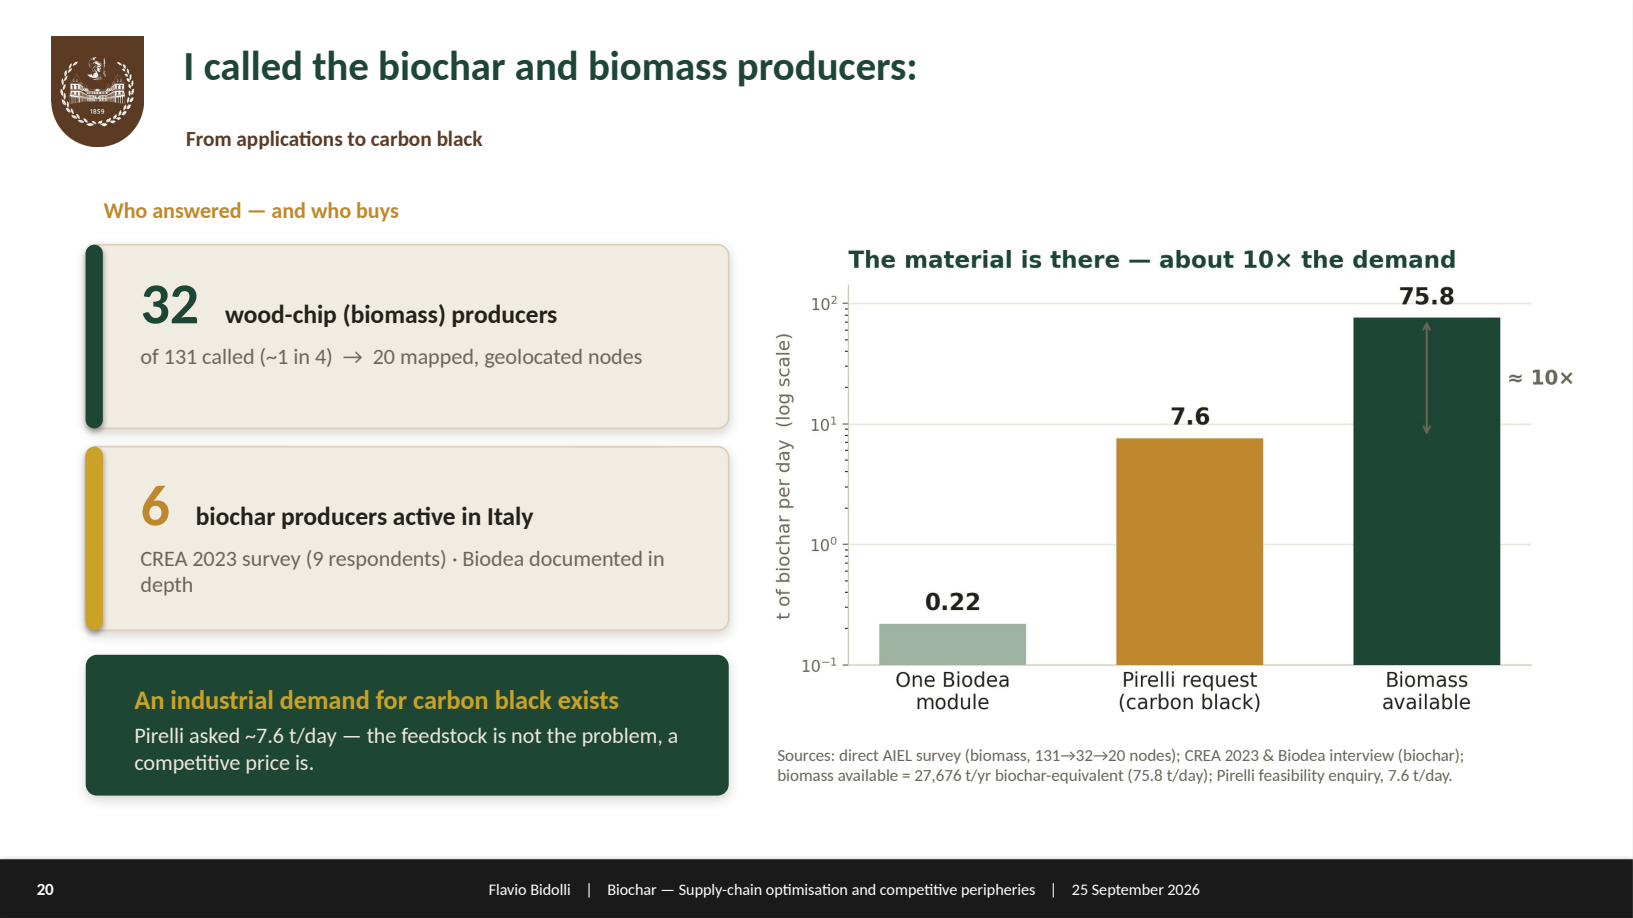
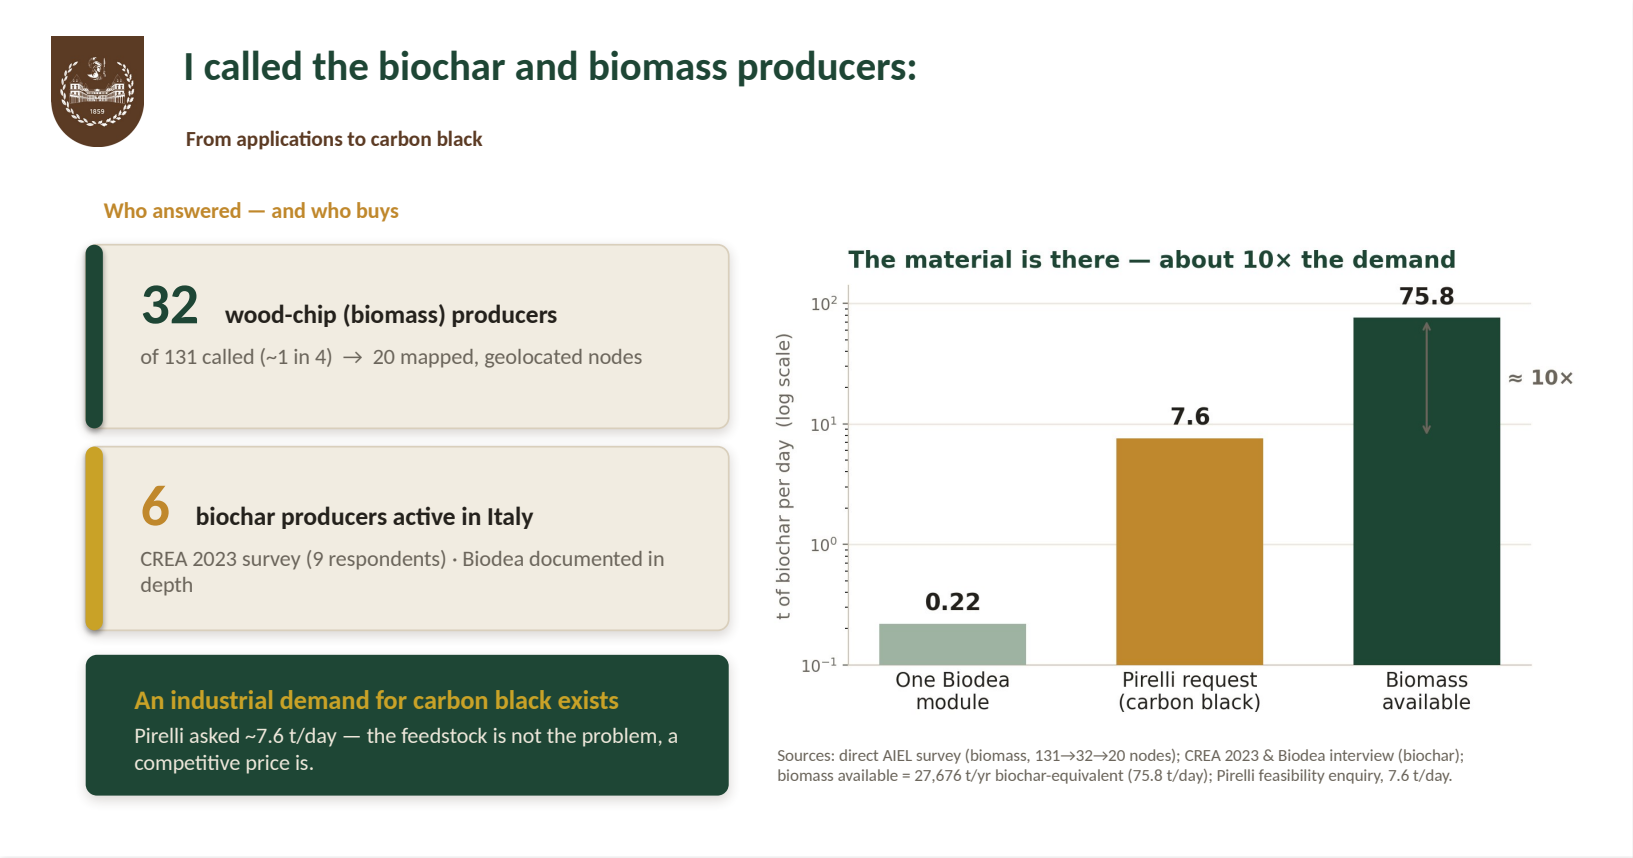
Revisione: dati (tabella fonti IT, figure proprie), narrazione domanda di ricerca, funzione di costo con equazioni dalla tesi, nota Gemini; rimossa figura con data/numero errati
Claude-Session: https://claude.ai/code/session_01RGa1LfhNjE5WNhxDGToPwu

diff --git a/README.md b/README.md
@@ -20,72 +20,116 @@ As team leader of **EcoPoli**, one of the Politecnico's student teams, I met bio
 
 ## 2. The data problem
 
-I picked up the literature and entered the field, focusing on Italy.
+I picked up the literature and entered the field, focusing on Italy. **Every figure in this section is my own, built from my own review of the market literature** — there was no ready-made dataset to draw on.
 
 ![The European biochar market, 2024–2026](images/european_market.png)
 
-The European market grows — around 205 biochar plants cumulatively by end-2025, a larger base expected in 2026 — **but Italy never appears explicitly**, and the available market data lack transparency, scale, or territorial depth. The standard tools of complex systems did not help:
+The European market grows — around 205 biochar plants cumulatively by end-2025, a larger base expected in 2026 — **but Italy never appears explicitly**, and the available market data lack transparency, scale, or territorial depth.
+
+On the biomass side, the official Italian sources are worse: each is a top-down aggregate or a modelled potential, and none measures what is actually on the ground.
+
+| Source | What it gives | Why it falls short |
+|---|---|---|
+| **ENEA — Biomass Atlas** | Potential of agro-industrial residues, national scale | **Never completed**, funding cut |
+| **JRC — EU Biomass Flows** | Harmonised EU biomass production & trade, aggregated as fluxes | **Categories indiscernible**; no domestic-vs-import split |
+| **S2Biom — Italy roadmap** | Technical potential 2030: 34.4 Mt/yr dry matter | A **modelled** 2030 projection, theoretical; not sited, not measured |
+| **CRRA — Annex A** | Most recent national study; aggregates the above | **Internal inconsistencies** in the biochar data — which I found and flagged to the authors |
+
+The consequence is that the usual tools of complex systems do not apply:
 
 - **Financial / stochastic models** (as used for biofuels) are impossible: the time series simply do not exist.
 - **Agent-based modelling** finds no well-defined agents: Italian producers barely interact, markets are highly localised, players are few and use near-identical technologies and business models.
-- **Biomass data** are worse — scarce, outdated, incomplete or merely theoretical. The one national effort meant to anchor such studies, by **ENEA**, had its funding cut in 2019.
 
-A lead appeared with **Grimm, Niazmand & Runge (2026)**, a two-stage supply-chain optimisation for biochar from paper sludge, built on production and plant data disclosed by a large German company. The approach was transferable to Italy — except that, in Italy, the data did not exist.
+## 3. From a vague interest to a precise question
 
-## 3. Building the dataset — I picked up the phone
+Two things turned this into a workable question.
+
+**The target came from the field, not from the desk.** Talking to the companies, I learned that the relevant competitor for biochar is **carbon black**: **Pirelli** had approached **Biodea** looking for biochar as a less-polluting substitute for carbon black in tyre production. That conversation, not the literature, is what fixed the economic benchmark — an existing industrial demand and a price to beat.
+
+**The method came from one article.** Among a scattered literature, Grimm et al. (2026) was the lead:
+
+> *"A candle of hope appears when I discovered Grimm's 2026 article: they study the European supply-chain market with an optimisation model for biochar produced from paper sludge; they had access to an important German company which disclosed to them their production and plant data, so they built a model to compute how to price a carbon credit — a financial tool to get money from the carbon dioxide subtracted from the atmosphere — in order to make the whole biochar-selling system break even, i.e. revenues equal costs."*
+
+What inspired me was narrow and specific: **they had the data**. A real company had disclosed its production and plant figures, so a supply-chain optimisation could actually be built. The approach was transferable to Italy — except that, in Italy, the data did not exist.
+
+### Building the dataset — I picked up the phone
 
 So I built the dataset no registry would give me. I called the wood-chip (biomass) producers and the biochar companies myself, one by one.
 
 ![Producer survey: companies and demand](images/producer_survey.png)
 
-Out of **131 wood-chip producers** called, **32** gave usable numbers and became **geolocalised nodes** of a graph of northern Italy; of the few **biochar producers active in Italy**, Biodea is the one documented in detail. One finding mattered beyond the numbers: **Pirelli** approached Biodea seeking biochar as a less-polluting substitute for carbon black — evidence that an **industrial demand** exists. The available biomass is roughly **ten times** the demand implied by that use: the bottleneck is not the resource.
+Out of **131 wood-chip producers** called, **32** gave usable numbers and became **geolocalised nodes**, reduced to the **22** that enter the model; of the few **biochar producers active in Italy**, Biodea is the one documented in detail. The available biomass is roughly **ten times** the demand implied by the carbon-black substitution: the bottleneck is not the resource.
 
-## 4. The research question
+### The research question
 
 > **At what price should a carbon credit be set so that an optimised Italian biochar supply chain covers its costs while selling biochar at a price competitive with carbon black?**
 
-## 5. The model
+## 4. The model
 
 **What it does.** The model takes as inputs the biomass nodes, the engineering specifications of the plants, the distances between nodes, the cost of building a new plant, and the transport cost of moving biomass. Subject to the condition that **every node must use all its feedstock** — processing it in its own plant or selling it to another node — it returns the **optimised geography** of the supply chain and the **capacity of each open plant**, then computes the carbon credit that makes costs and revenues break even.
 
 **The tension at its core.** The whole problem is a single trade between two opposing pulls:
 
 ![Scale versus transport — the cost function](images/scale_transport_tension.jpg)
+*Conceptual illustration of the model's tension, generated by the author with Google Gemini.*
 
 - **Centralise** and exploit economies of scale — doubling a plant's capacity costs less than double;
 - **Stay sparse** and save on transport cost — and therefore on emissions. Less transport means **more net CO₂ removed**.
 
-**The objective.** The break-even carbon credit is
+### The break-even credit
 
-$$ p^\star = \frac{1}{\mathrm{CO_2^{net}}}\left[\ \sum_j C_j \;+\; K^{\mathrm{tr}} \;+\; K^{\mathrm{mat}} \;-\; Rv\ \right] $$
+The model is solved in two stages: **Stage A** is a location–allocation problem that fixes the layout by minimising fixed plus transport cost; **Stage B** takes that layout and computes its full economic and carbon balance, from which the single figure of merit is extracted — the **break-even carbon credit** $p^\star$, the credit price that exactly cancels the chain's deficit:
 
-minimised over the supply-chain layout, where the net CO₂ removed is computed through a **life-cycle assessment following the Puro.earth** methodology — the procedure actually used by the leading carbon-credit market.
+$$ p^\star \;=\; \frac{\text{full annual cost} \;-\; \text{annual revenues}}{\text{net CO}_2\text{ removed per year}} \;=\; \frac{\displaystyle\sum_j C_j \;+\; K^{\mathrm{tr}} \;+\; K^{\mathrm{mat}} \;-\; Rv}{\mathrm{CO_2^{net}}} $$
 
-![From the optimised network to the credit price](images/network_to_credit.png)
+The net CO₂ removed is computed through a **life-cycle assessment following the Puro.earth** methodology — the procedure actually used by the leading carbon-credit market. The full annual cost is the sum of three blocks, built and simplified below.
 
-### Cost function and the simplifications it took
+### The cost function, built and simplified
 
-The cost function has four blocks: **opening plants**, **transport**, **revenues**, and **biomass purchase**. Turning Grimm's general formulation into something that fits the Italian case — and stays solvable — required deliberate, stated simplifications:
+The general two-stage formulation of Grimm et al. was adapted to the Italian case by stripping away what Italy does not have, and keeping the model solvable. Each simplification is deliberate and stated.
 
-- **Sub-product plants are dropped**: refining of by-products is treated as happening in the producing plant, not in new dedicated nodes.
-- **A single conversion technology**, because at present only one is actually in use in Italy; technology choice is left to future work.
-- **Static model**: one annual period, so the time index is removed.
-- **Transport = flat tariff × distance**, with great-circle (haversine) distances, because the interviews were not precise enough to assign a specific cost to each link.
+**Fixed cost — the only nonlinear block, and the one that carries economies of scale.** With no detailed cost data, capital cost follows the engineering **six-tenths rule**; annualised through the capital recovery factor (CRF) and augmented by a fixed-OPEX fraction, the annual fixed cost of an open plant of capacity $y$ is
 
-What remains is a fixed cost that is **concave in capacity** (the economy-of-scale "0.6 power" law) and must be charged **only when a plant is open**.
+$$ F(y) \;=\; \bigl(\mathrm{CRF} + f_{\mathrm{OPEX}}\bigr)\, K_{\mathrm{ref}} \left(\frac{y}{y_{\mathrm{ref}}}\right)^{0.6}, \qquad \mathrm{CRF} = \frac{r\,(1+r)^{n}}{(1+r)^{n}-1} $$
 
-### The two nonlinearities, and how they are handled
+so a plant $k$ times larger costs only $k^{0.6}$ times as much — the incentive to concentrate. Capacity is tied to the biomass actually routed to the plant, $\sum_i z_{ij} S_i \le y_j H$.
 
-The two nonlinearities are what make the problem interesting — and non-linear. Both are linearised so the problem becomes a MILP:
+This block carries **two nonlinearities** that a linear solver cannot take: the concave $y^{0.6}$ curve, and the product $x_j y_j$ (the fixed cost must be charged *only* when the plant is open, $x_j=1$). Grimm handled these with a single straight-line approximation plus a McCormick envelope; reproduced here, it failed outside the capacity window $[y_{\min},y_{\max}]$, wrongly refusing to aggregate small plants. They were replaced by a **piecewise-linear (PWL) surrogate** accurate over the whole domain, with the open/closed switch folded into the interpolation weights:
 
 ![Economies of scale and its piecewise-linear surrogate](images/economies_of_scale_pwl.png)
 
-- **Economies of scale** ($\text{cost}\propto y^{0.6}$, so a plant twice as big costs only $\approx 2^{0.6}\approx 1.5\times$): the curve is sampled at breakpoints and each plant's cost and capacity are written as a weighted average of the two nearest breakpoints, with **at most two adjacent weights non-zero**.
-- **The open/closed switch** (the fixed cost multiplies a binary "is the plant open?" variable): handled with a bilinear trick — the interpolation weights sum to **1 if the plant is open, 0 otherwise**.
+$$ y_j = \sum_{k}\lambda_{jk}\,\hat y_k, \qquad C_j = \sum_{k}\lambda_{jk}\,\hat c_k, \qquad \sum_{k}\lambda_{jk} = x_j $$
 
-The result is a **mixed-integer linear program (MILP)** solved by **branch-and-bound** through the **Pyomo** library.
+The normalisation $\sum_k \lambda_{jk}=x_j$ does double duty: when $x_j=0$ every weight is zero, so $y_j=C_j=0$ and the bilinear product is never written; when $x_j=1$ the weights sum to one and land on the curve, while an adjacency (SOS2) condition keeps **at most two adjacent weights non-zero**, so a single segment is used.
 
-## 6. Results
+**Material cost — the dominant term, and the one the optimiser cannot touch.**
+
+$$ K^{\mathrm{mat}} \;=\; \sum_{i,j} z_{ij}\,S_i\,\pi_i \;+\; \rho_{\mathrm{res}}\,B\,g $$
+
+Because every producer's biomass is fully allocated somewhere ($\sum_j z_{ij}=1$), the purchase term collapses to $\sum_i S_i \pi_i$ — **a constant, independent of the layout**. At base data it is ≈ **16.0 M€/yr**, larger on its own than the chain's total revenues. This is the structural reason the credit comes out high, and why spatial optimisation can only ever be a secondary lever.
+
+**Transport cost — the counterweight to economies of scale.**
+
+$$ K^{\mathrm{tr}} \;=\; \sum_{i,j} \tau\, d_{ij}\, S_i\, z_{ij} $$
+
+with $d_{ij}$ the great-circle (haversine) distance and $\tau$ a flat tariff per tonne-kilometre. Concentrating the supply lowers the fixed cost but raises this term; the optimum balances the two.
+
+**Simplifications made explicit.** Sub-product (upgrading) plants are dropped — Italy has none, so by-products are refined on site. A **single conversion technology** is kept, because only one is currently in use. The model is **static** (one annual period, no time index). Transport uses **straight-line distances** (the road detour is absorbed into $\tau$) and a **single flat tariff** (no load-, direction- or vehicle-dependence), and only inbound feedstock transport is counted. Feedstock is assumed to be of a single quality, so its price $\pi$ is uniform and only swept in the sensitivity analysis.
+
+**Solver.** The assembled problem is a **mixed-integer linear program (MILP)**, solved by **branch-and-bound** through the **Pyomo** library.
+
+| Symbol | Meaning | Base value |
+|---|---|---|
+| $R$ | scale exponent (six-tenths rule) | 0.6 |
+| $K_{\mathrm{ref}},\,y_{\mathrm{ref}}$ | reference CAPEX, capacity | 26.6 M€, 5 t·h⁻¹ |
+| $r,\,n$ | discount rate, plant lifetime | 0.06, 20 yr |
+| $f_{\mathrm{OPEX}}$ | fixed OPEX, fraction of CAPEX | 0.02 (0.028 modular) |
+| $H$ | effective operating hours (90% availability) | ≈ 7 884 h·yr⁻¹ |
+| $n_{\mathrm{seg}}$ | PWL segments | 15 |
+| $B$ | total biomass processed | ≈ 144 900 t·yr⁻¹ |
+| $\tau$ | transport tariff (swept 0.077 / 0.3 / 1.0) | 0.077 €·t⁻¹·km⁻¹ |
+
+## 5. Results
 
 **Validation.** A deliberately controllable, unrealistic scenario — identical Biodea modules stacked in parallel, no economies of scale — behaves exactly as expected: cost grows linearly, and the arrows reveal non-obvious optima such as switched-off nodes and biomass hauled to saturate a module before opening a new one.
 
@@ -113,7 +157,7 @@ The result is a **mixed-integer linear program (MILP)** solved by **branch-and-b
 
 **Headline.** Under highly conservative assumptions, a carbon credit in the range of **251 – 1,108 €/tCO₂** (economies of scale exploited vs. not exploited) lets biochar reach a selling price (~0.12 €/kg) competitive with carbon black at the volumes the market would require.
 
-## 7. Conclusion
+## 6. Conclusion
 
 What blocks biochar in Italy is **not the resource** — the biomass is there, about ten times over. The binding constraints are **bureaucratic, logistical and administrative coordination**, and a credit price that today only a favourable configuration of parameters can reach. The spatial optimisation is a real but secondary lever next to the biomass price.
 
